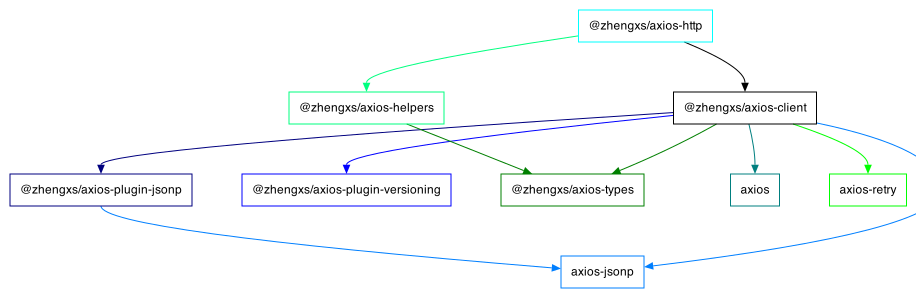
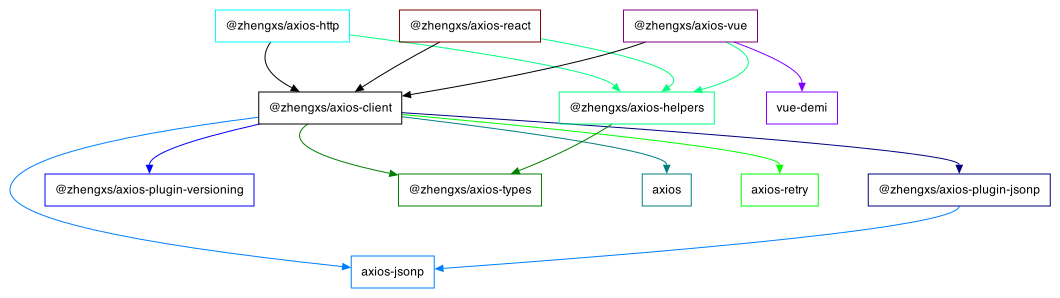
WIP: 新增 vue 和 react 模块

diff --git a/packages/axios-react/.buildrc.ts b/packages/axios-react/.buildrc.ts
@@ -1,0 +1,17 @@
+export default {
+  target: 'node12',
+  entryPoints: ['./src/index.ts'],
+  tsconfig: 'tsconfig.json',
+  formats: [
+    {
+      type: 'cjs',
+      tsconfig: 'tsconfig.cjs.json'
+    },
+    {
+      type: 'esm',
+      outExtension: {
+        '.js': '.mjs'
+      }
+    }
+  ]
+}

diff --git a/packages/axios-vue/.buildrc.ts b/packages/axios-vue/.buildrc.ts
@@ -1,0 +1,17 @@
+export default {
+  target: 'node12',
+  entryPoints: ['./src/index.ts'],
+  tsconfig: 'tsconfig.json',
+  formats: [
+    {
+      type: 'cjs',
+      tsconfig: 'tsconfig.cjs.json'
+    },
+    {
+      type: 'esm',
+      outExtension: {
+        '.js': '.mjs'
+      }
+    }
+  ]
+}

diff --git a/packages/axios-react/src/index.ts b/packages/axios-react/src/index.ts
@@ -1,0 +1,1 @@
+export {}

diff --git a/packages/axios-vue/src/index.ts b/packages/axios-vue/src/index.ts
@@ -1,0 +1,1 @@
+export {}

diff --git a/docs/guide/README.md b/docs/guide/README.md
@@ -20,6 +20,8 @@
 - **@zhengxs/axios-helpers** 助手函数
 - **@zhengxs/axios-plugin-\*** 功能插件 (`ps: 兼容 Axios 的实例`)
 - **@zhengxs/axios-types** 提供给其他模块使用的 TS 类型
+- **@zhengxs/axios-vue** 提供给 `Vue 2 & 3` 使用的插件
+- **@zhengxs/axios-react** 提供给 `React` 使用的插件
 
 可以从 [这里](https://juejin.cn/post/7053471988752318472) 了解此模块的理念。
 
